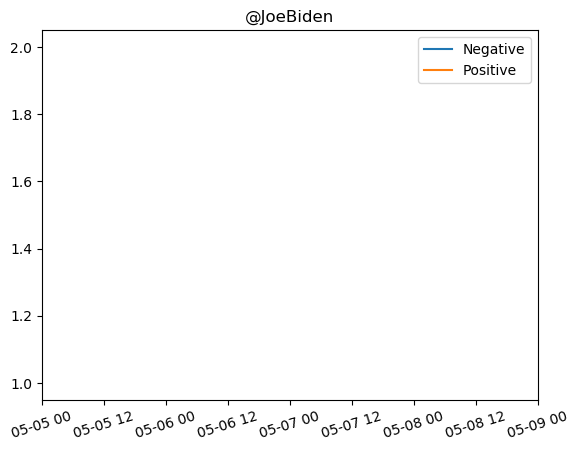
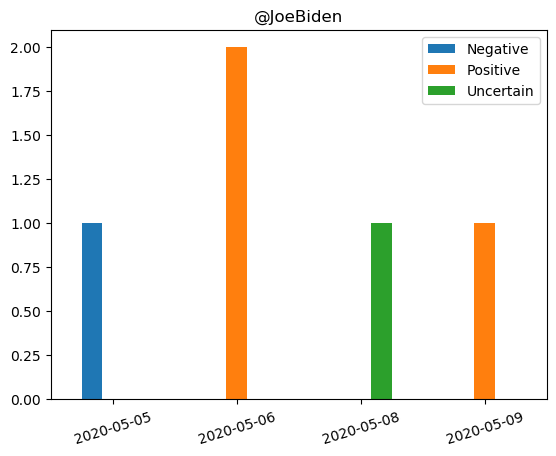
Added option of removing a single sentiment

Changed region(s): [[0.0, 0.0, 1.0, 0.9933]]

diff --git a/modules/flask_service.py b/modules/flask_service.py
@@ -8,19 +8,11 @@ from datetime import datetime, date
 
 app = Flask(__name__)
 
-@app.route('/api/hashtag/<string:hashtag>', methods=['POST'])
-def get_test(hashtag):
-    print(hashtag)
-    # if hashtag == "trump":
-    #     do_everything(str(hashtag))
-    #     return send_file("./plots/trump.png"), 200
-    return jsonify({"message": "No content"}), 404
-
 @app.route('/api/sentiment', methods=['POST'])
 def get_burglaries():
     # Check there is a body in request
     if not request.json:
-        abort(400, 'Please provide search data. Example: {"hashtags": ["trump","biden"],"start_date": "2020-5-10","end_date": "2020-5-11"}')
+        abort(400, 'Please provide search data. Example: {"hashtags": ["trump","biden"],"start_date": "2020-5-3","end_date": "2020-5-12","plot_type": "line","remove_sentiment": "uncertain"}')
     
 
     # Check if there is a hashtag list in the JSON
@@ -43,6 +35,10 @@ def get_burglaries():
 
     if(list(search_for.keys())):
         file_name = list(search_for.values())[0]
+
+    rm_sentiment = ""
+    if 'remove_sentiment' in request.json:
+        rm_sentiment = request.json['remove_sentiment']
 
     # Check type of plot
     if not 'plot_type' in request.json:
@@ -68,11 +64,11 @@ def get_burglaries():
     print(end_date)
 
     # Creating plot
-    do_everything(hashtags, file_name, start_date, end_date, plot_type, search_for)
+    do_everything(hashtags, file_name, start_date, end_date, plot_type, search_for, rm_sentiment)
 
     return send_file("./plots/" + file_name + ".png"), 200
 
-def do_everything(hashtags: list, file_name, start_date, end_date, plot_type, search_for: dict):
+def do_everything(hashtags: list, file_name, start_date, end_date, plot_type, search_for: dict, remove_sentiment: str):
     # tweet_list a list of tweet objects (not a list of strings)
     tweet_list = web_scraper.get_tweets(100, False, hashtags)
     print("Done scraping...")
@@ -89,10 +85,16 @@ def do_everything(hashtags: list, file_name, start_date, end_date, plot_type, se
     filtered_data = presentation.get_tweets_in_daterange(analyzed_tweet_data, start_date, end_date)
     print("Done filtering on date...")
 
-    # more filtering if possible
+    # filter for specific hashtag, mention or url
     if (list(search_for.keys())):
         filtered_data = presentation.get_by_key_value(filtered_data, list(search_for.keys())[0], list(search_for.values())[0])
+        print("Done filtering for hashtag, mention or url...")
 
+    # filter sentiment if possible
+    if (remove_sentiment):
+        filtered_data = presentation.remove_sentiment(filtered_data, remove_sentiment)
+        print("Done removing sentiment...")
+    
     # Getting plot data from the get_sentiment function 
     PLOT_ME = presentation.get_sentiment(filtered_data)
     print("Done getting sentiment df for plotting...")
